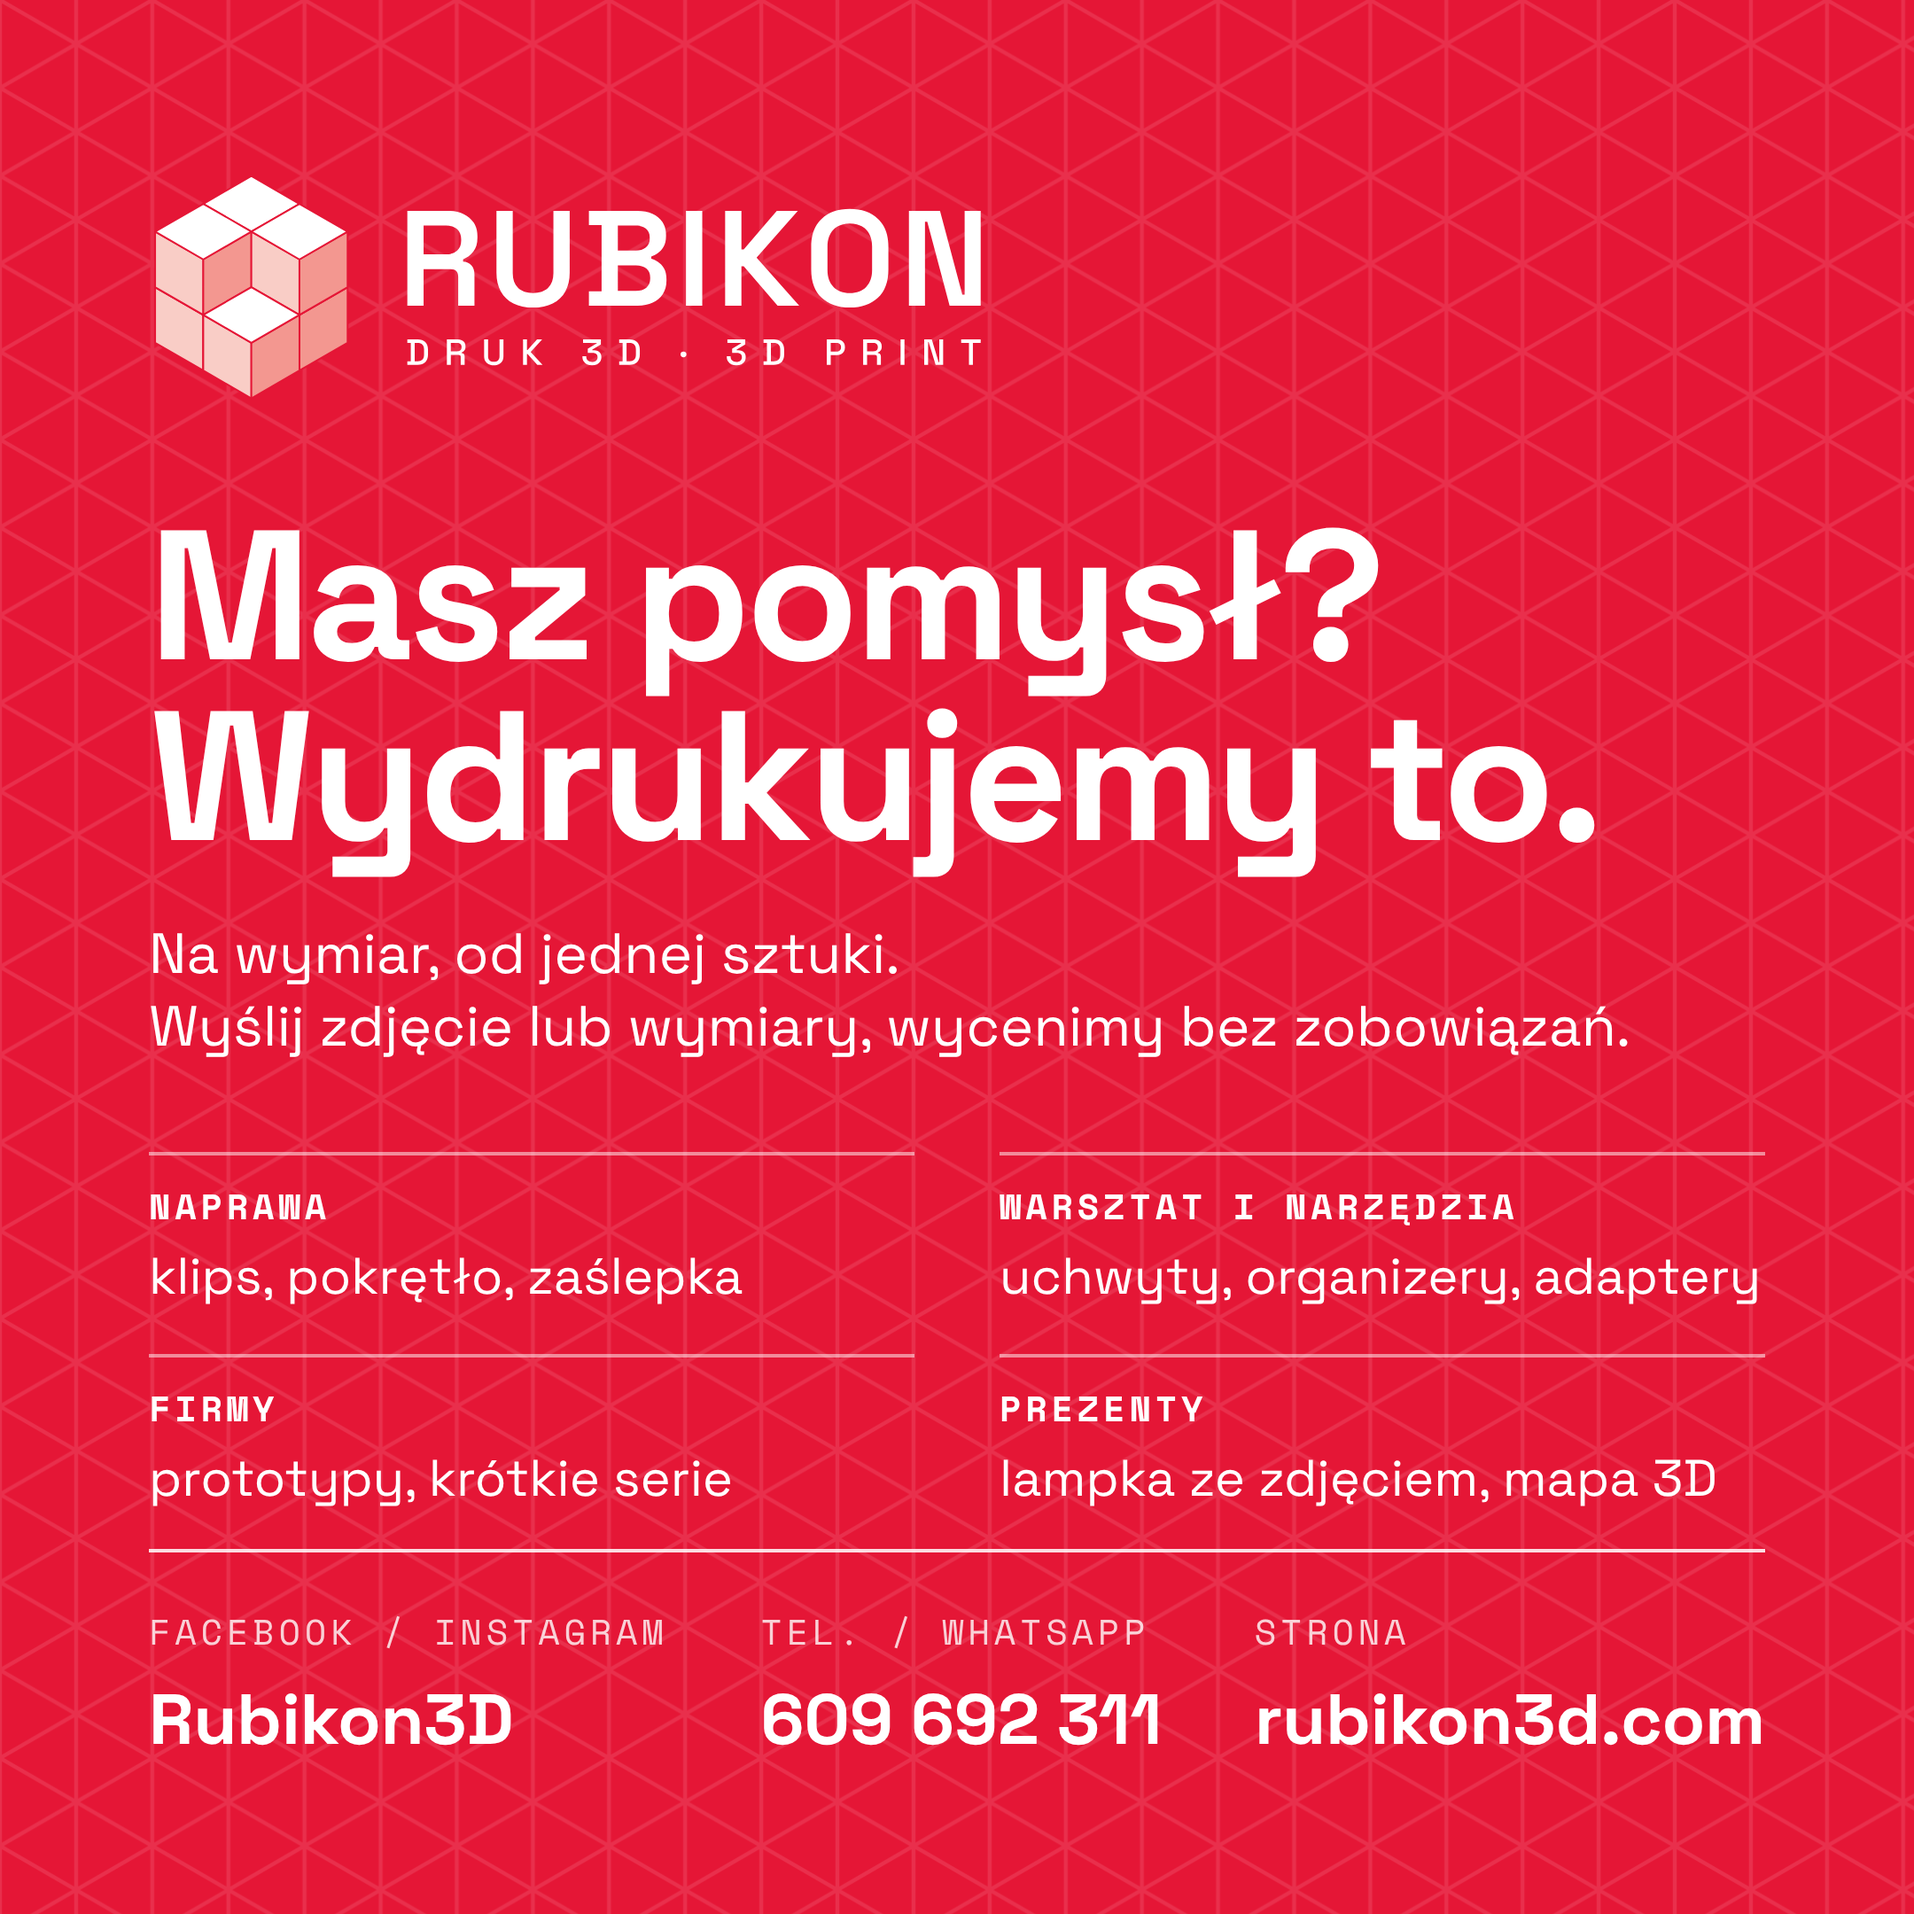
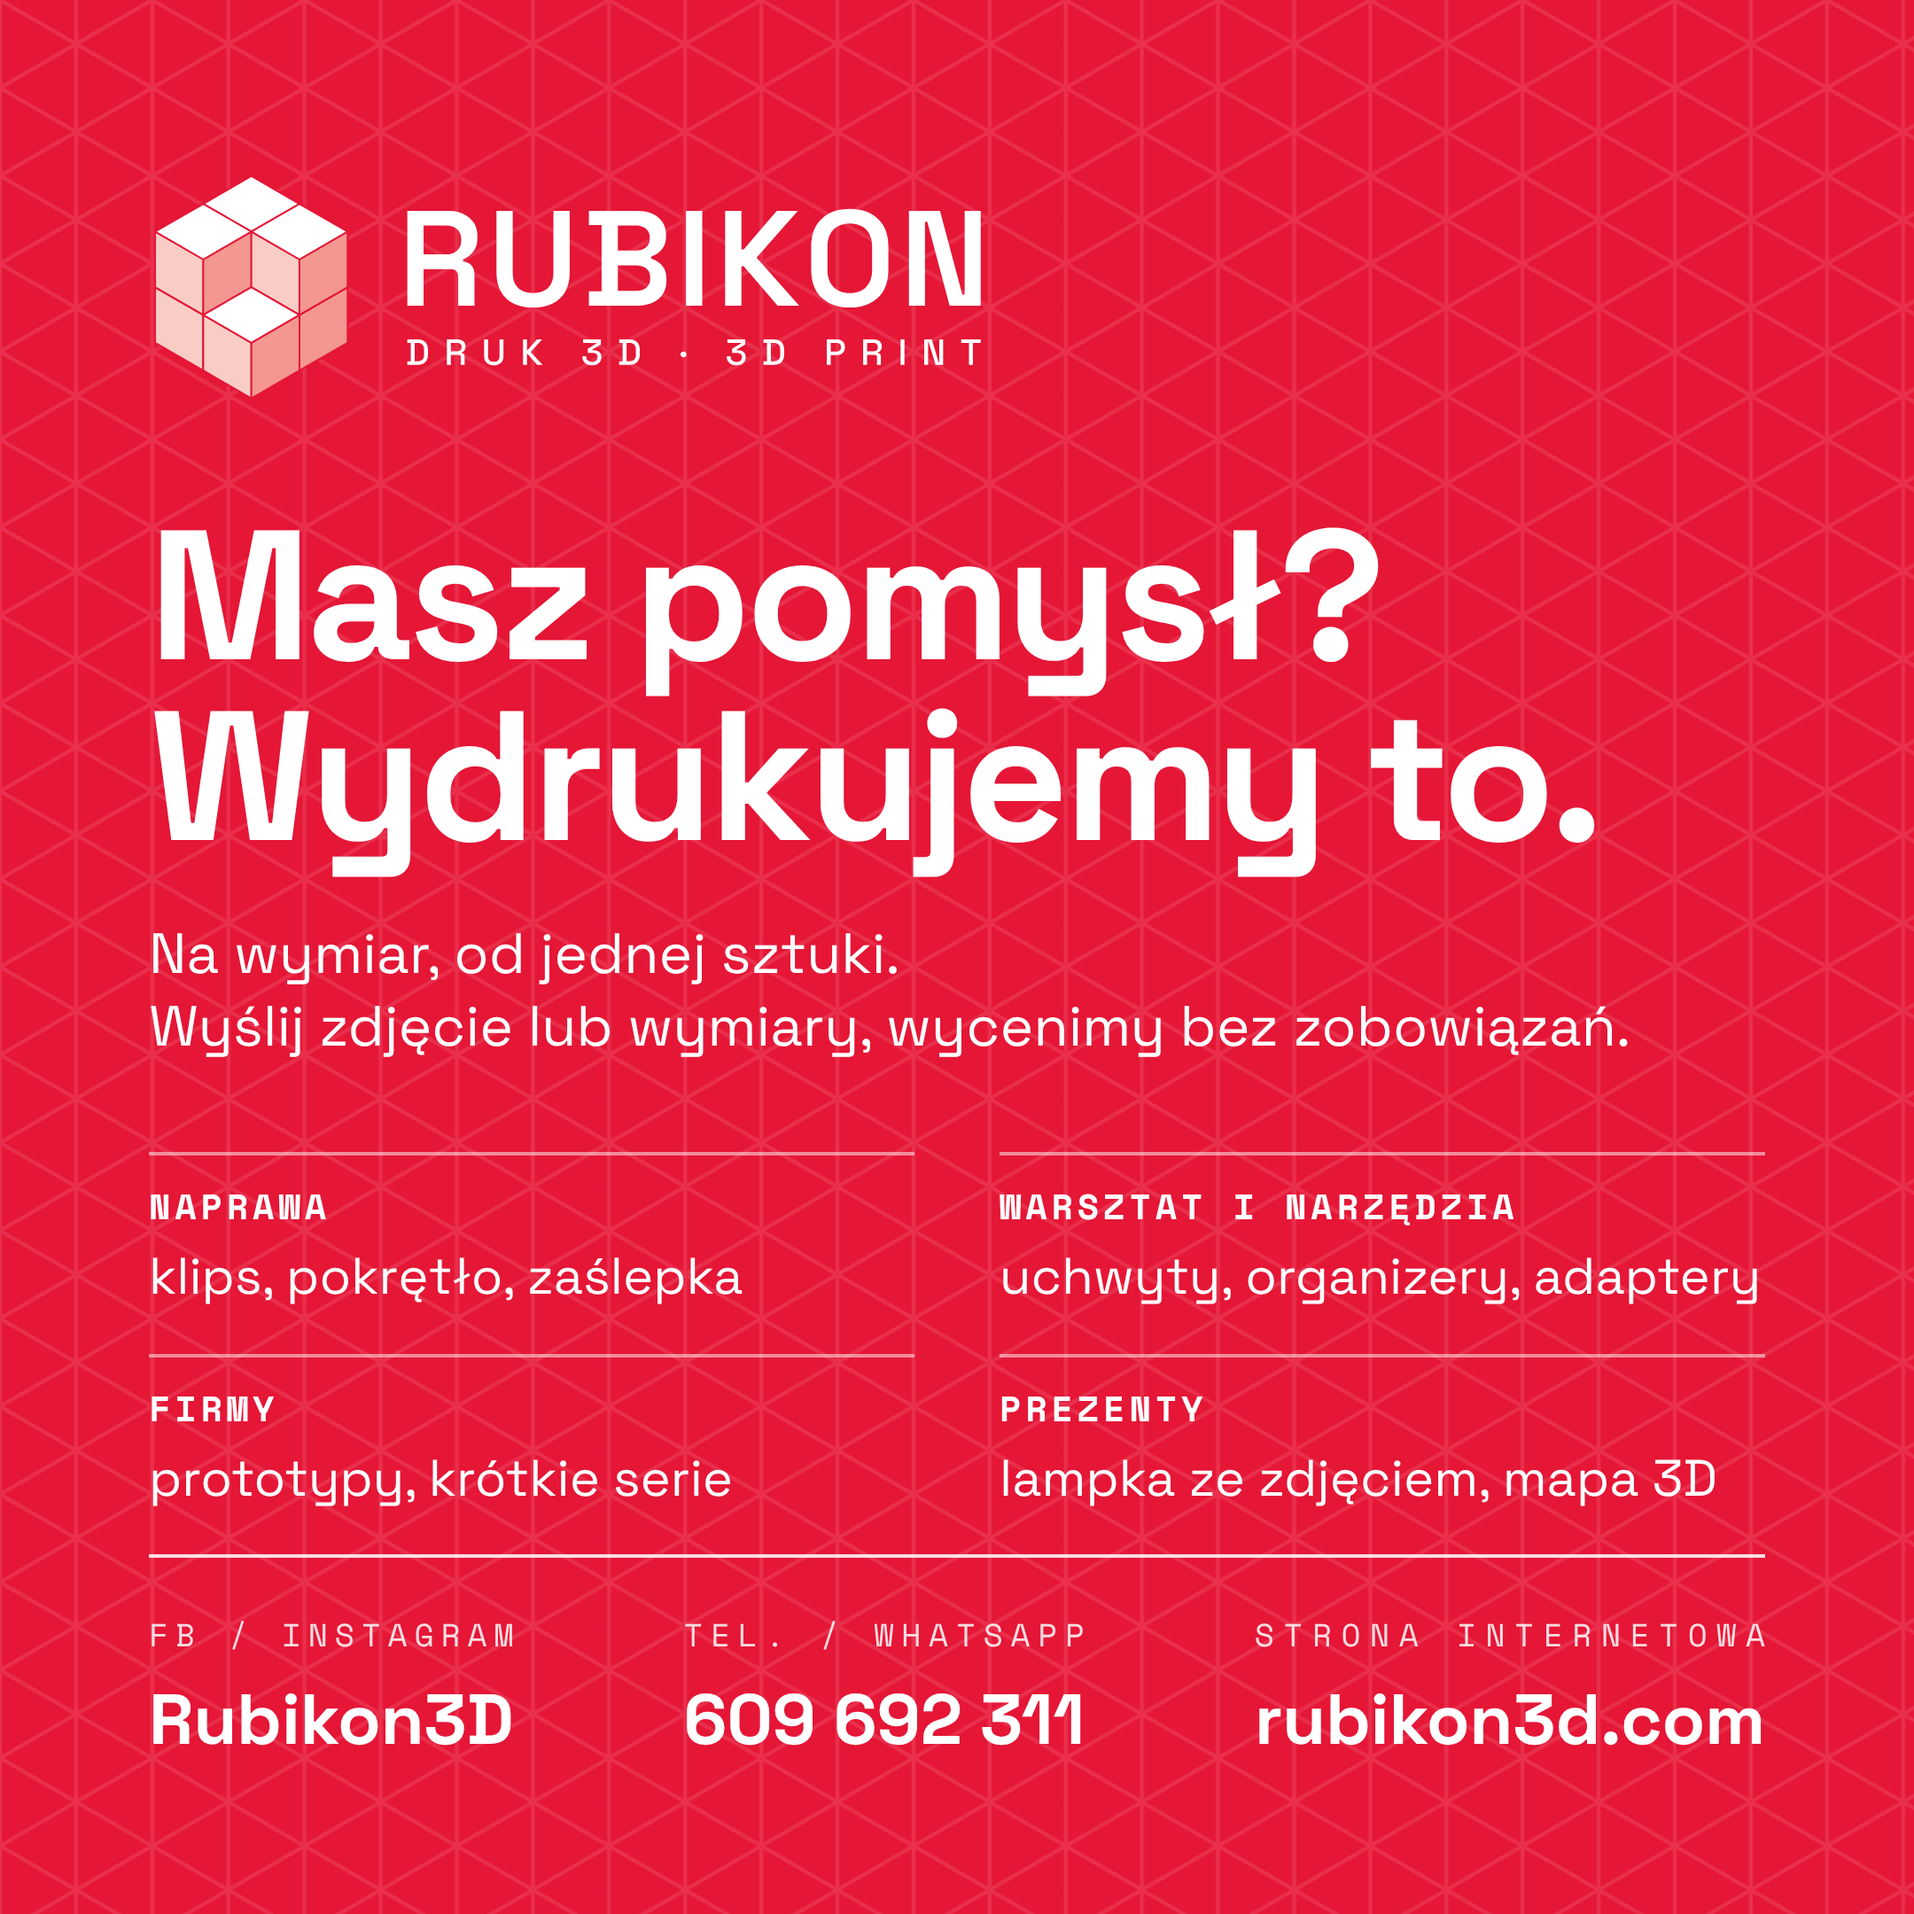
FB graphic: contact labels fitted to value width (shorter labels + per-label letter-spacing)
Claude-Session: https://claude.ai/code/session_01V9n2ssHcYFY6tMCdQtCuVM

Changed region(s): [[0.0931, 0.8065, 0.9306, 0.9306]]

diff --git a/rubikon3d-ulotki/zrodla/social.py b/rubikon3d-ulotki/zrodla/social.py
@@ -33,7 +33,7 @@ body{font-family:'Space Grotesk',sans-serif;-webkit-font-smoothing:antialiased}
 .cats span{display:block;font-family:'Space Mono',monospace;font-weight:700;font-size:20px;letter-spacing:.12em}
 .cats b{display:block;margin-top:6px;font-size:29px;font-weight:400}
 .ct{position:absolute;left:84px;right:84px;bottom:84px;border-top:2px solid #ffffffd9;padding-top:30px;display:grid;grid-template-columns:auto auto auto;justify-content:space-between;gap:28px}
-.ct span{display:block;font-family:'Space Mono',monospace;font-size:20px;letter-spacing:.12em;opacity:.8}
+.ct span{display:block;white-space:nowrap;font-family:'Space Mono',monospace;font-size:18px;opacity:.85}
 .ct b{display:block;margin-top:10px;font-size:40px;font-weight:700;letter-spacing:-.005em}
 """
 
@@ -49,9 +49,9 @@ HTML = f"""<!doctype html><html lang=pl><head><meta charset=utf-8><style>{CSS}</
  <div><span>PREZENTY</span><b>lampka ze zdjęciem, mapa 3D</b></div>
 </div>
 <div class=ct>
- <div><span>FACEBOOK / INSTAGRAM</span><b>Rubikon3D</b></div>
+ <div><span>FB / INSTAGRAM</span><b>Rubikon3D</b></div>
  <div><span>TEL. / WHATSAPP</span><b>609 692 311</b></div>
- <div><span>STRONA</span><b>rubikon3d.com</b></div>
+ <div><span>STRONA INTERNETOWA</span><b>rubikon3d.com</b></div>
 </div>
 </div></body></html>"""
 
@@ -59,7 +59,7 @@ html = B / "social-fb.html"
 html.write_text(HTML)
 js = f"""const {{chromium}}=require('playwright');(async()=>{{const b=await chromium.launch();
 const p=await b.newPage({{viewport:{{width:1080,height:1080}},deviceScaleFactor:2}});
-await p.goto('file://{html}');await p.evaluate(()=>document.fonts.ready);
+await p.goto('file://{html}');await p.evaluate(()=>document.fonts.ready);await p.evaluate(()=>{{for(const d of document.querySelectorAll('.ct>div')){{const l=d.querySelector('span'),v=d.querySelector('b');const w=e=>{{const r=document.createRange();r.selectNodeContents(e);return r.getBoundingClientRect().width}};l.style.letterSpacing='0px';const n=[...l.textContent].length;const ls=(w(v)-w(l))/(n-1);l.style.letterSpacing=ls+'px';l.style.marginRight=(-ls)+'px';l.dataset.fit=ls.toFixed(2)}}}});console.log(await p.evaluate(()=>[...document.querySelectorAll('.ct>div')].map(d=>{{const w=e=>{{const r=document.createRange();r.selectNodeContents(e);return r.getBoundingClientRect().width}};return d.querySelector('span').textContent+' ls='+d.querySelector('span').dataset.fit+' label='+(w(d.querySelector('span'))+parseFloat(d.querySelector('span').style.marginRight)).toFixed(1)+' value='+w(d.querySelector('b')).toFixed(1)}}).join(' | ')));
 await p.screenshot({{path:'{OUT}/Rubikon3D-grafika-FB-1080.png'}});await b.close()}})()"""
 subprocess.run(["node", "-e", js], check=True, cwd=B)
 html.unlink()
